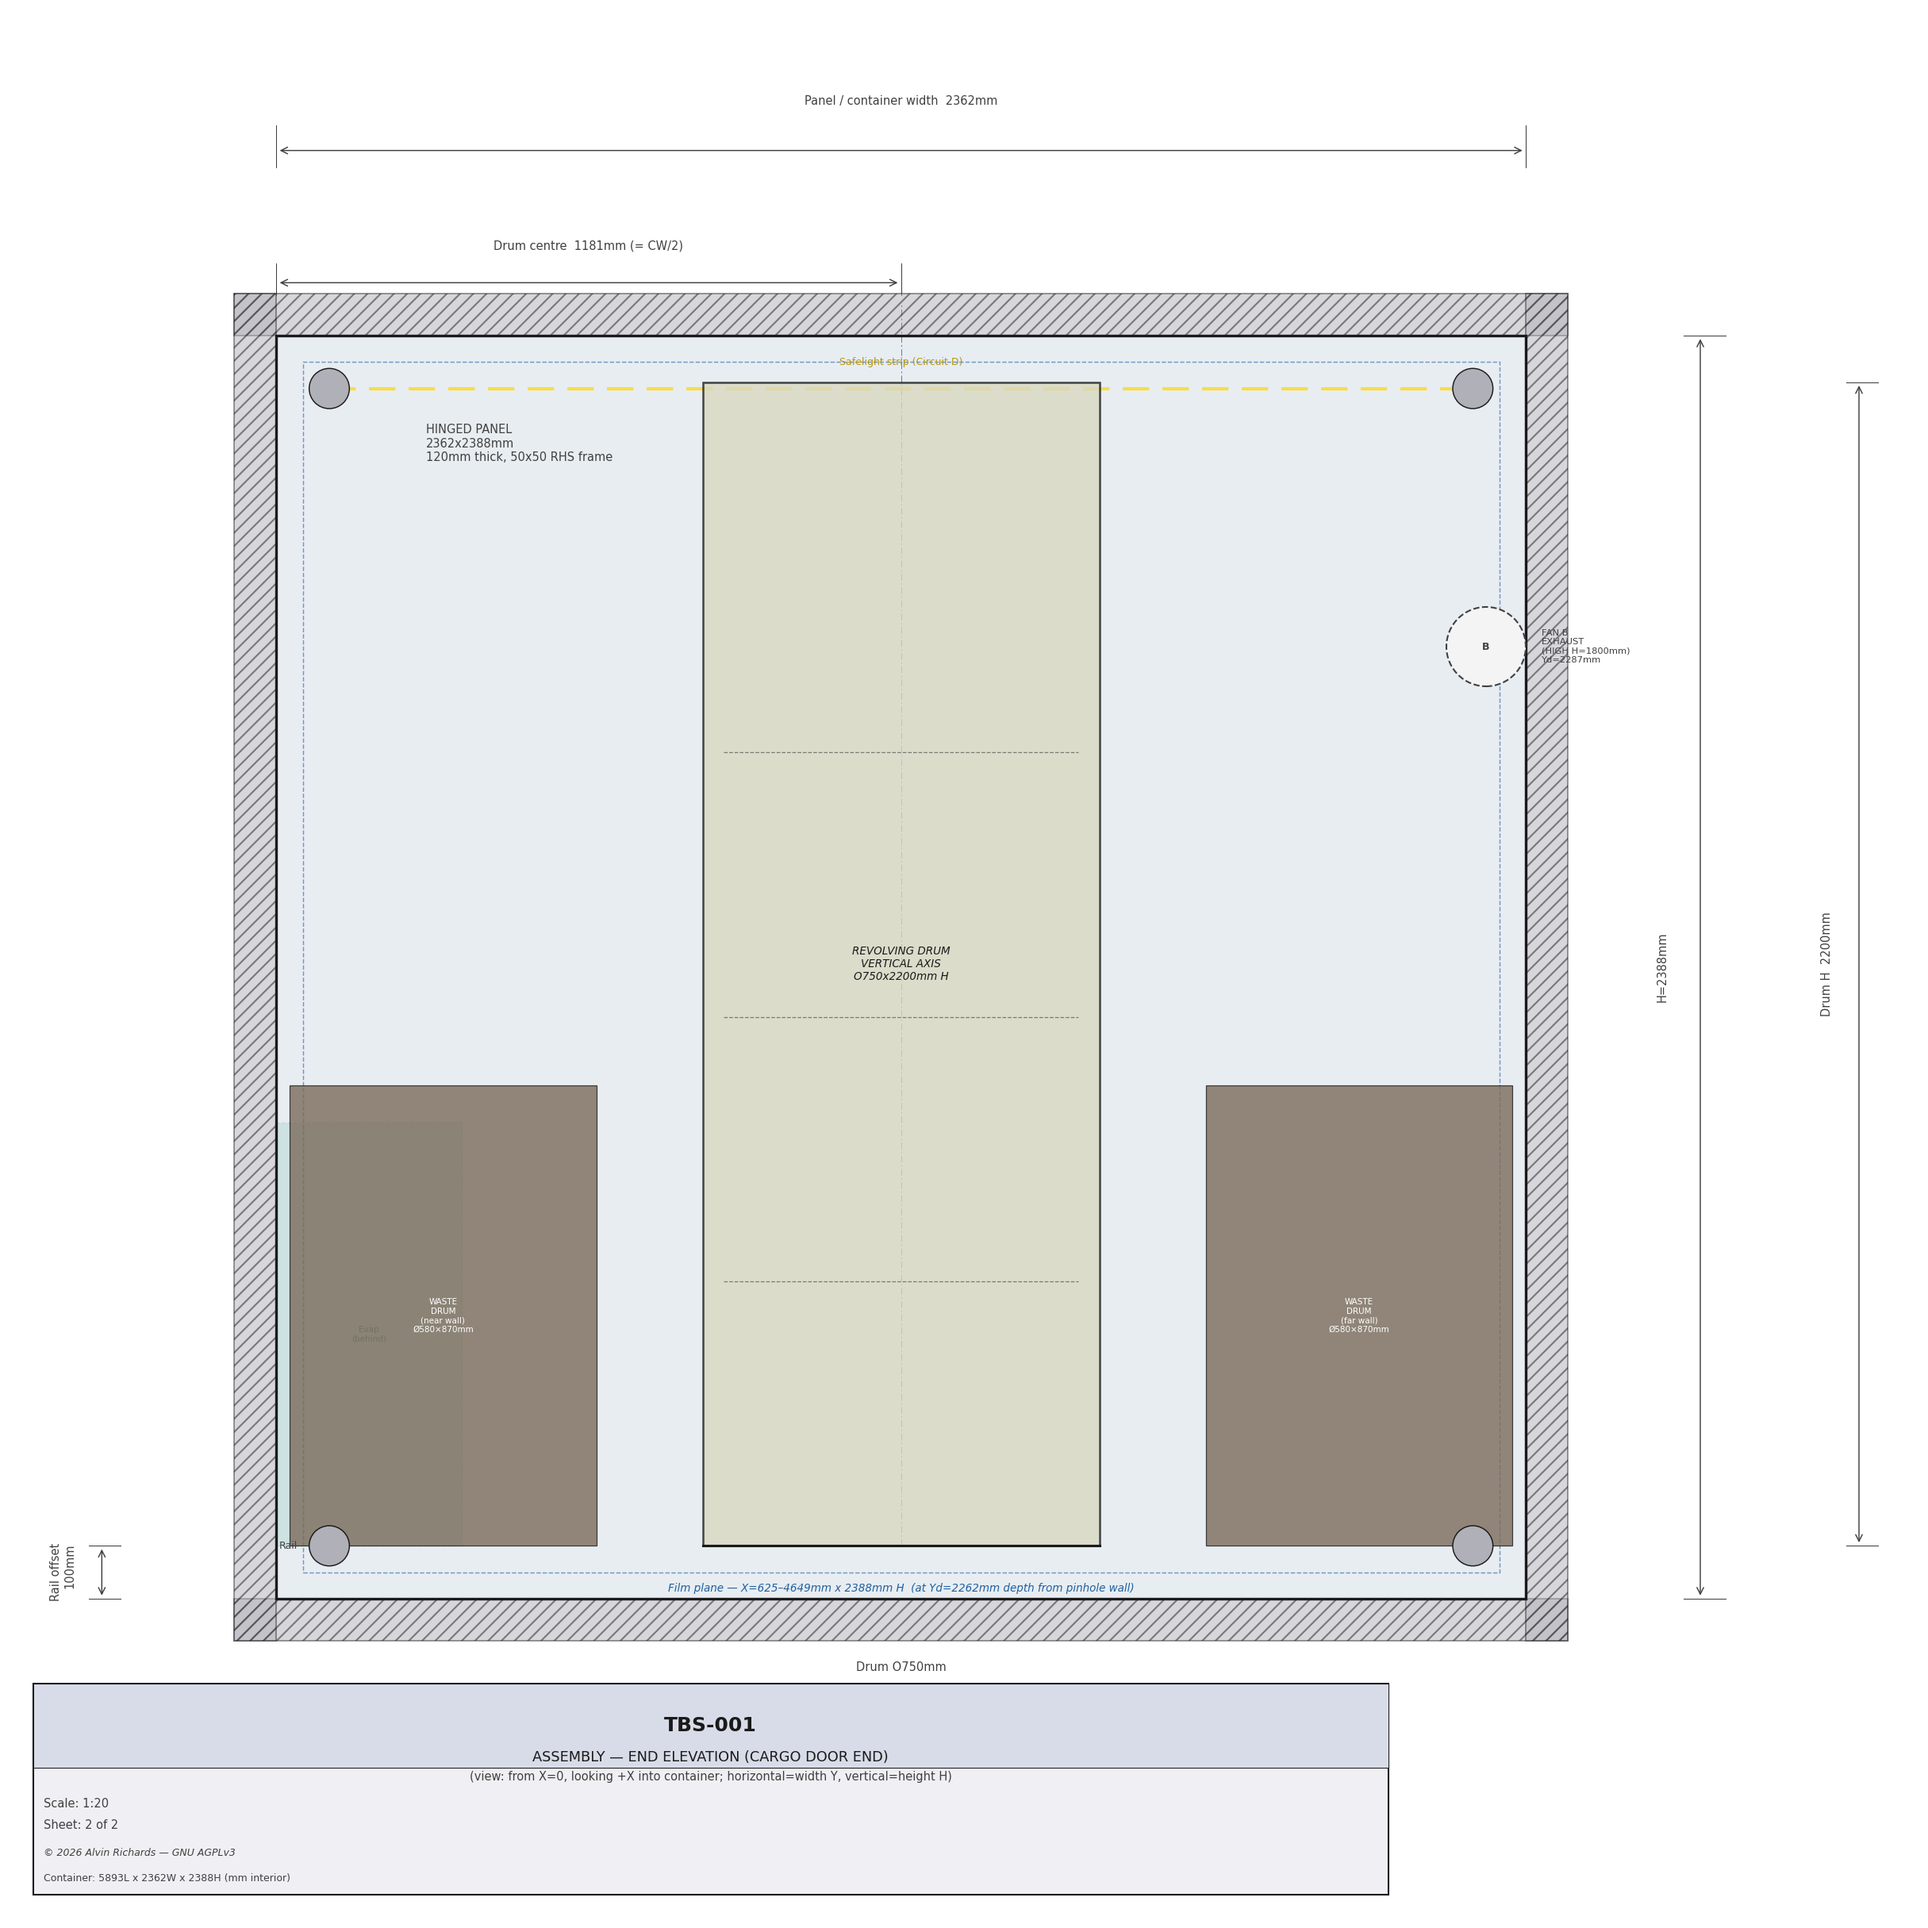
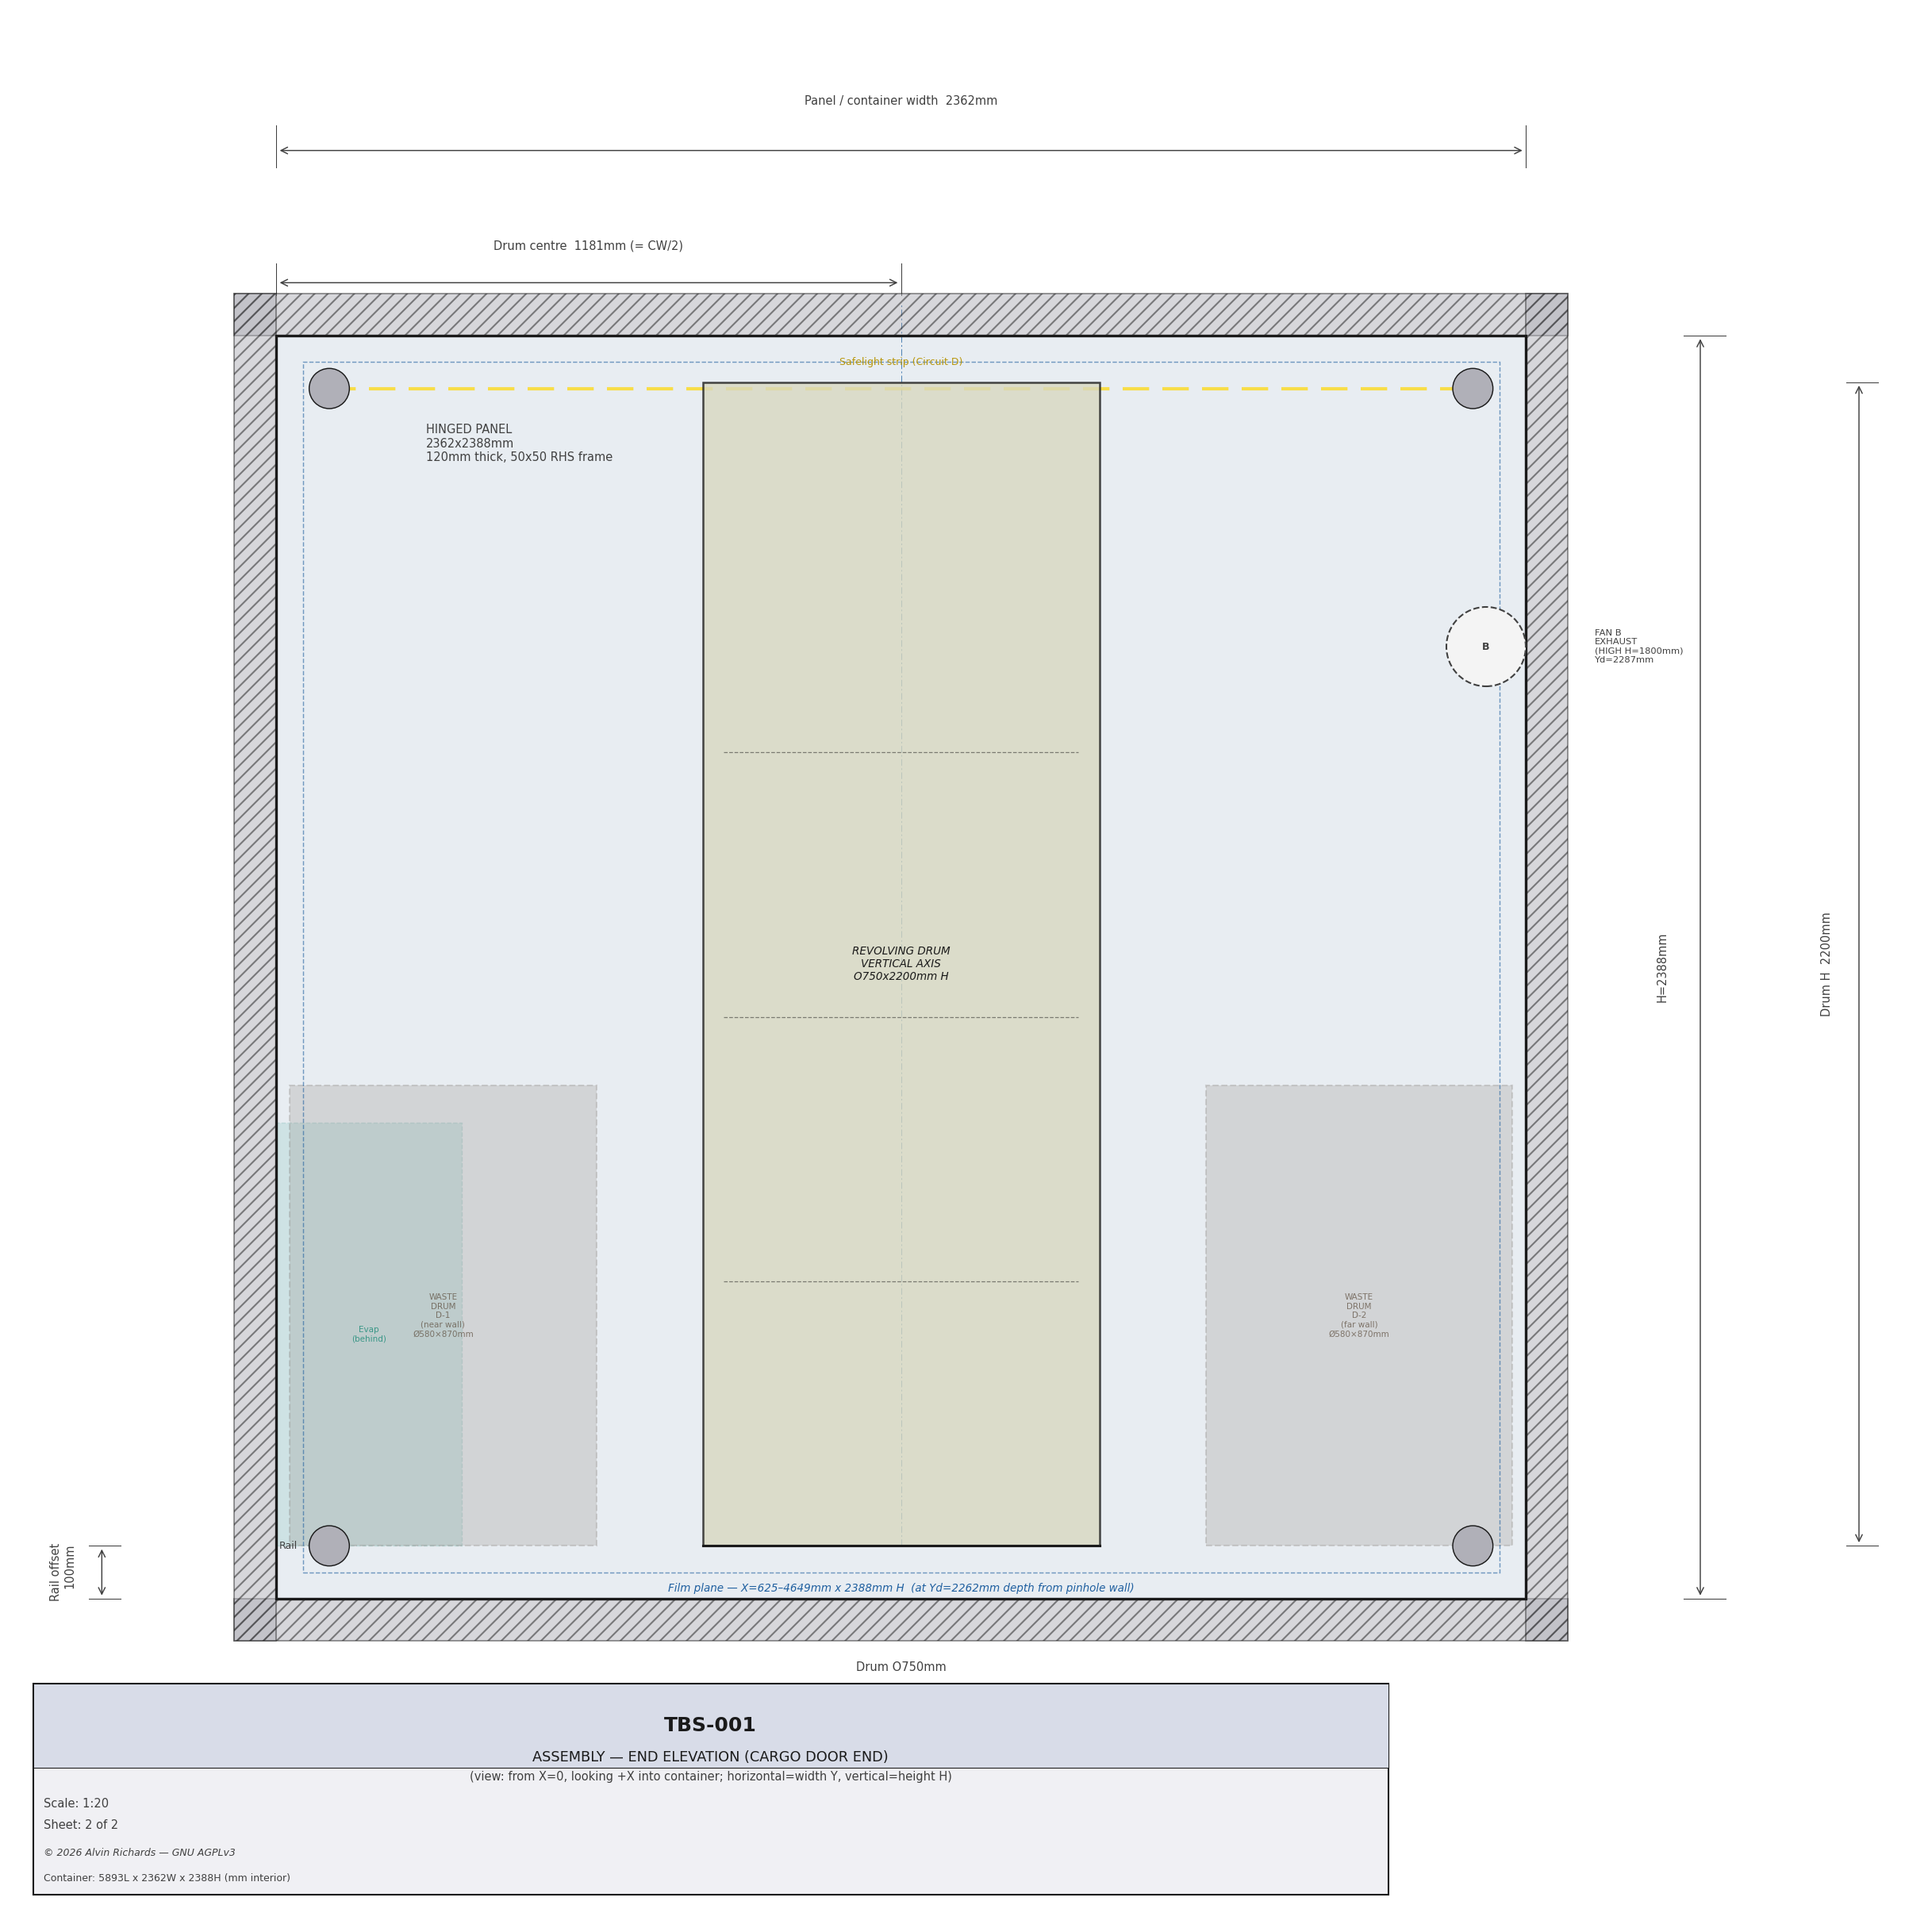
sheet2: render waste drums as ghost/dashed elements at depth
Drums D-1 and D-2 are at X=310mm depth behind the cargo door face.
Engineering convention: elements behind the view face use dashed outlines.
Changed from solid fill (alpha=0.80, zorder=4) to dashed ghost
(alpha=0.25, zorder=2, linestyle='--') matching the evap cooler treatment.
Labels updated to D-1/D-2 with wall-side callout.

Changed region(s): [[0.6173, 0.5556, 0.8025, 0.8025], [0.1235, 0.5556, 0.3086, 0.8025], [0.8025, 0.3086, 0.8333, 0.3395]]

diff --git a/generate_assembly_fabrication.py b/generate_assembly_fabrication.py
@@ -177,14 +177,14 @@ def sheet1():
                 dashes=(6, 4), zorder=4)
 
     # Zone labels
-    ax.text(ZONE_L_END/2,          C_HGT-100, f"LEFT END ZONE\nX=0–{ZONE_L_END}mm",
+    ax.text(ZONE_L_END/2,          C_HGT+200, f"LEFT END ZONE\nX=0–{ZONE_L_END}mm",
             ha="center", va="top", fontsize=FS_SM-0.5, color="#805000",
             fontweight="bold", zorder=5)
-    ax.text((ZONE_L_END+ZONE_R_START)/2, C_HGT-100,
+    ax.text((ZONE_L_END+ZONE_R_START)/2, C_HGT+200,
             f"OPTICAL ZONE\nX={ZONE_L_END}–{ZONE_R_START}mm",
             ha="center", va="top", fontsize=FS_SM-0.5, color="#006000",
             fontweight="bold", zorder=5)
-    ax.text((ZONE_R_START+C_LEN)/2, C_HGT-100,
+    ax.text((ZONE_R_START+C_LEN)/2, C_HGT+200,
             f"RIGHT END ZONE\nX={ZONE_R_START}–{C_LEN}mm",
             ha="center", va="top", fontsize=FS_SM-0.5, color="#004080",
             fontweight="bold", zorder=5)
@@ -485,19 +485,20 @@ def sheet2():
     ax.text(EVAP_Y + EVAP_D/2, RAIL_OFF + EVAP_H/2, "Evap\n(behind)", ha="center", va="center",
             fontsize=FS_SM-2, color="#1A8A76", alpha=0.8, zorder=3)
 
-    # ── 55-gal waste drums — one either side of revolving drum ────────────────
-    # Near drum: Yd=25–605mm (near wall side) — left of drum in this view
-    # Far drum:  Yd=1757–2337mm (far wall side) — right of drum in this view
-    # Both at floor level, H=RAIL_OFF to RAIL_OFF+DRUM_EQ_H.  Depth ≈310mm into page.
-    for yd_lo in [DRUM_LZ_YD_LO, DRUM_FZ_YD_LO]:
-        equip_blk(ax, yd_lo, RAIL_OFF, DRUM_EQ_D, DRUM_EQ_H,
-                  C_DRUM_EQ, alpha=0.80, zorder=4)
-    ax.text(DRUM_LZ_YD_LO + DRUM_EQ_D/2, RAIL_OFF + DRUM_EQ_H/2,
-            f"WASTE\nDRUM\n(near wall)\nØ{DRUM_EQ_D}×{DRUM_EQ_H}mm",
-            ha="center", va="center", fontsize=FS_SM-2, color="white", zorder=5)
-    ax.text(DRUM_FZ_YD_LO + DRUM_EQ_D/2, RAIL_OFF + DRUM_EQ_H/2,
-            f"WASTE\nDRUM\n(far wall)\nØ{DRUM_EQ_D}×{DRUM_EQ_H}mm",
-            ha="center", va="center", fontsize=FS_SM-2, color="white", zorder=5)
+    # ── 55-gal waste drums — ghost outlines (at X=310mm depth, behind this face) ─
+    # Near drum D-1: Yd=25–605mm (pinhole wall corner) — left of revolving drum
+    # Far drum  D-2: Yd=1757–2337mm (far wall corner)  — right of revolving drum
+    # Shown dashed (ghost) because they are at depth behind the cargo door face.
+    for yd_lo, label in [(DRUM_LZ_YD_LO, "D-1\n(near wall)"),
+                          (DRUM_FZ_YD_LO, "D-2\n(far wall)")]:
+        ax.add_patch(mpatches.Rectangle(
+            (yd_lo, RAIL_OFF), DRUM_EQ_D, DRUM_EQ_H,
+            facecolor=C_DRUM_EQ, edgecolor="#5A4A3A",
+            linewidth=1.0, linestyle="--", alpha=0.25, zorder=2))
+        ax.text(yd_lo + DRUM_EQ_D/2, RAIL_OFF + DRUM_EQ_H/2,
+                f"WASTE\nDRUM\n{label}\nØ{DRUM_EQ_D}×{DRUM_EQ_H}mm",
+                ha="center", va="center", fontsize=FS_SM-2, color="#5A4A3A",
+                alpha=0.7, zorder=3)
 
     # ── Safelight ─────────────────────────────────────────────────────────────
     ax.plot([100, C_WID-100], [C_HGT-100, C_HGT-100],
@@ -514,7 +515,7 @@ def sheet2():
                  linestyle="--", zorder=5))
     ax.text(FAN_B_YD, FAN_B_H, "B", ha="center", va="center",
             fontsize=FS_SM-1, color=C_DIM, fontweight="bold", zorder=6)
-    ax.text(FAN_B_YD + FAN_R2 + 30, FAN_B_H,
+    ax.text(FAN_B_YD + FAN_R2 + 130, FAN_B_H,
             f"FAN B\nEXHAUST\n(HIGH H={FAN_B_H}mm)\nYd={FAN_B_YD}mm",
             ha="left", va="center", fontsize=FS_SM-1.5, color=C_DIM, zorder=6)
 
